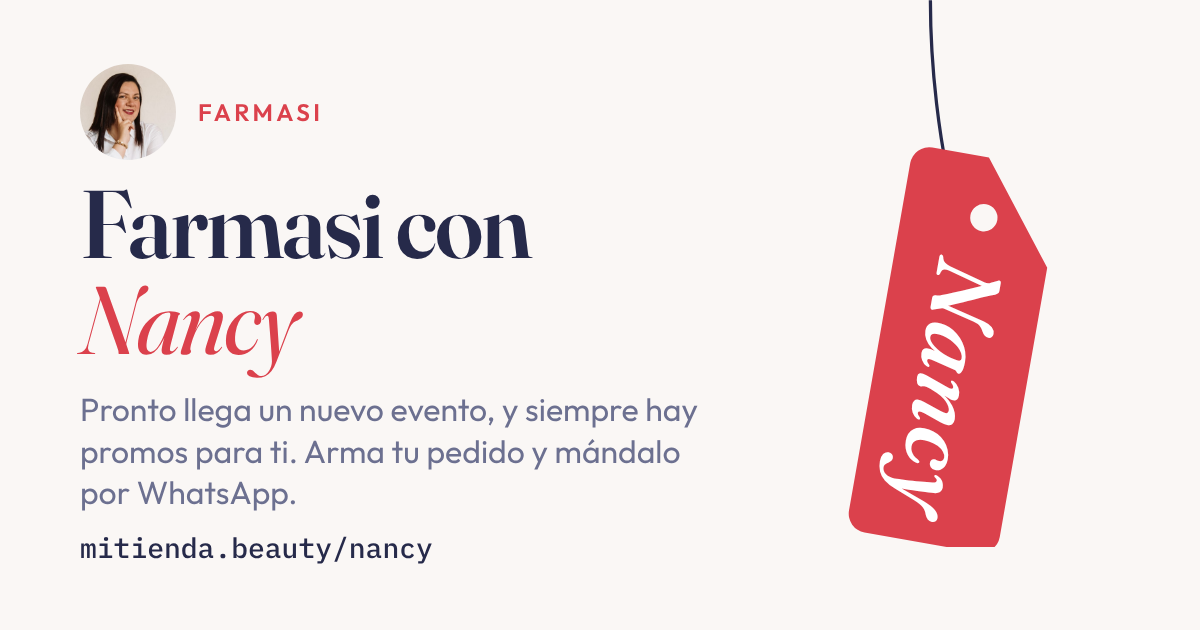
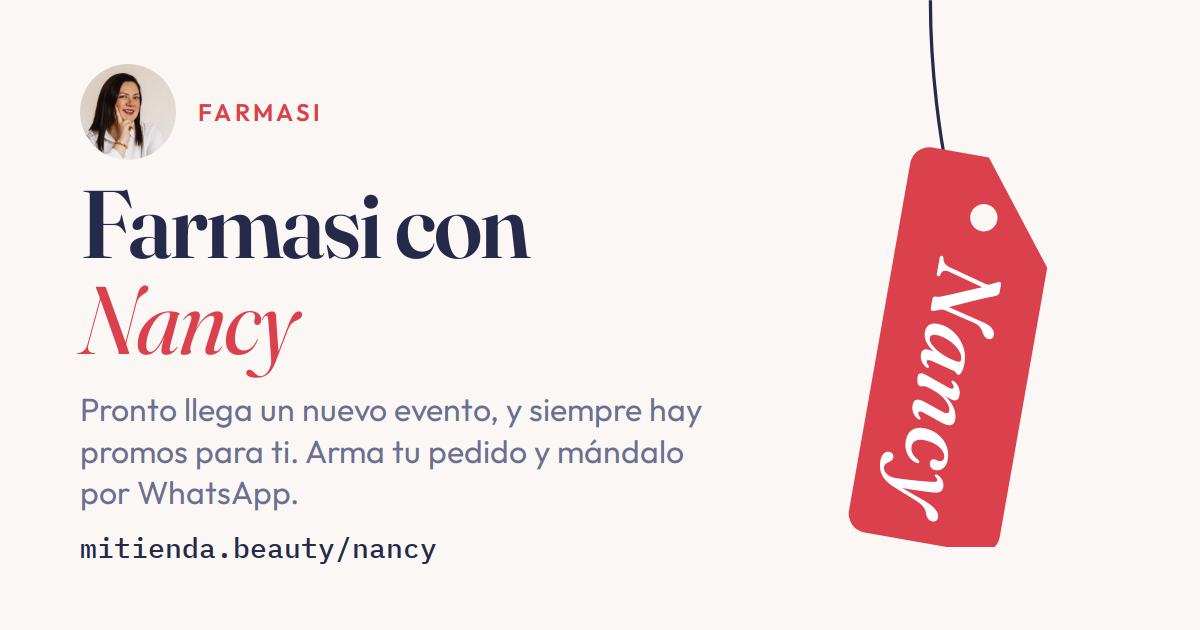
Vistas previas actualizadas (automático)

diff --git a/nancy/index.html b/nancy/index.html
@@ -15,11 +15,11 @@
 <meta property="og:type" content="website">
 <meta property="og:locale" content="es_MX">
 <meta property="og:url" content="https://mitienda.beauty/nancy/">
-<meta property="og:image" content="https://mitienda.beauty/og/nancy.png?v=dc4a5851">
+<meta property="og:image" content="https://mitienda.beauty/og/nancy.png?v=fa753ab4">
 <meta property="og:image:width" content="1200">
 <meta property="og:image:height" content="630">
 <meta name="twitter:card" content="summary_large_image">
-<meta name="twitter:image" content="https://mitienda.beauty/og/nancy.png?v=dc4a5851">
+<meta name="twitter:image" content="https://mitienda.beauty/og/nancy.png?v=fa753ab4">
 <link rel="preconnect" href="https://fonts.googleapis.com">
 <link rel="preconnect" href="https://fonts.gstatic.com" crossorigin>
 <link href="https://fonts.googleapis.com/css2?family=IBM+Plex+Mono:wght@400;500;700&family=Outfit:wght@300;400;500;600;700;800&display=swap" rel="stylesheet">
